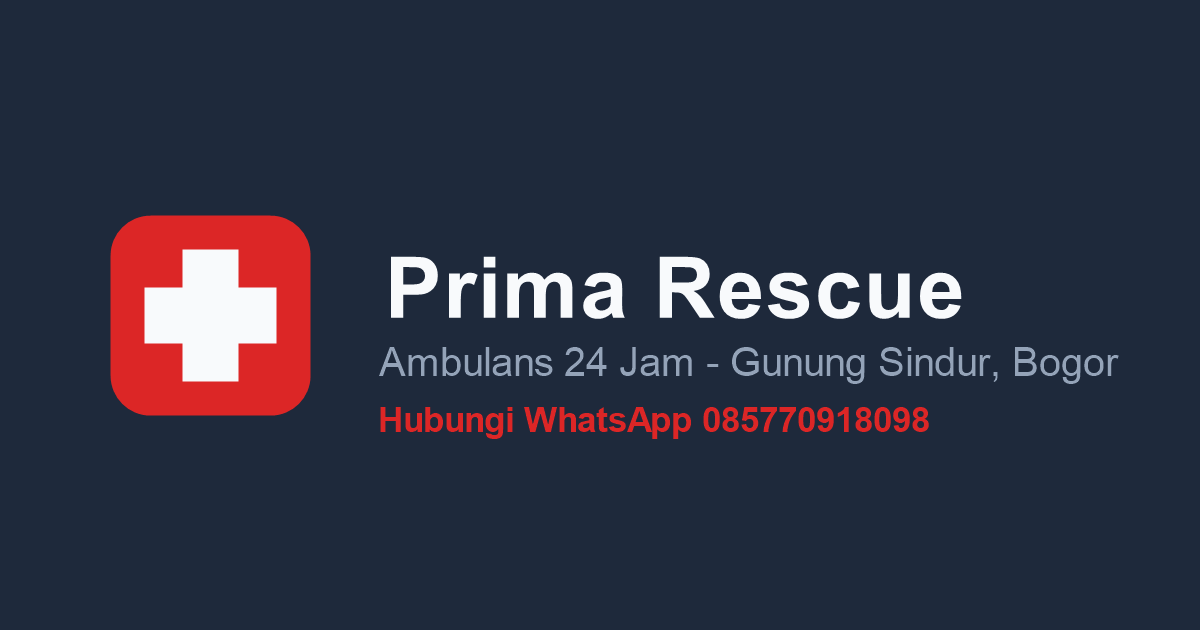
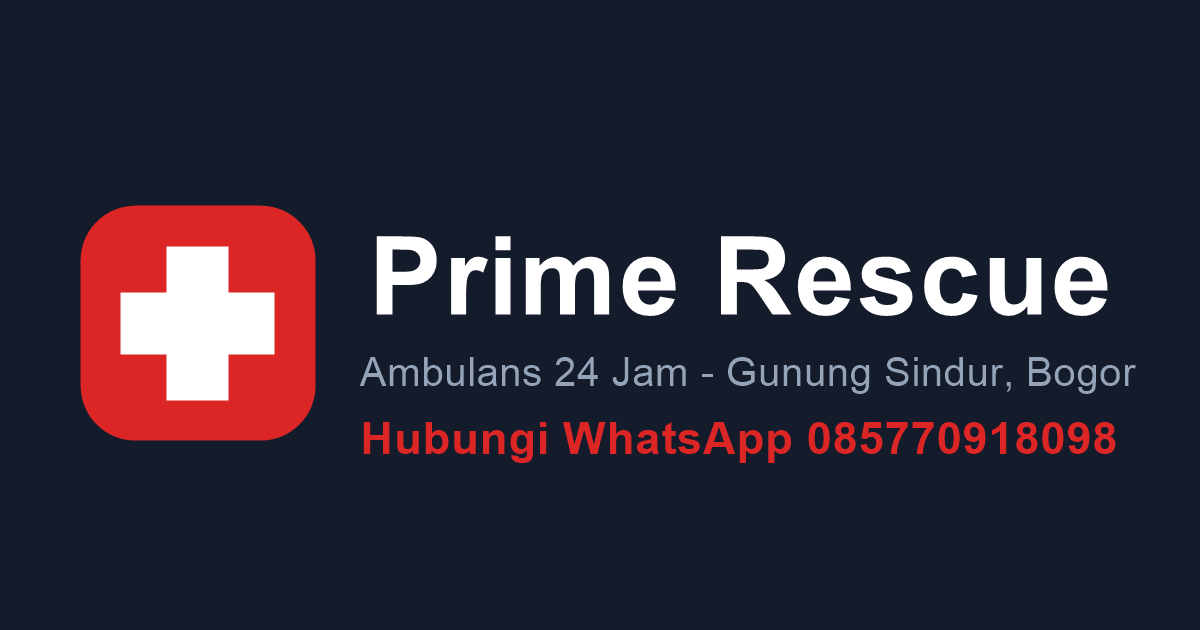
rebrand: Prima Rescue -> Prime Rescue

Changed region(s): [[0.0617, 0.3016, 0.9558, 0.754], [0.3083, 0.3619, 0.925, 0.5127]]

diff --git a/app/layout.tsx b/app/layout.tsx
@@ -16,18 +16,18 @@ const inter = Inter({
 
 export const metadata: Metadata = {
   metadataBase: new URL("https://primerescue.web.id"),
-  title: "Ambulans 24 Jam Prima Rescue Gunung Sindur",
+  title: "Ambulans 24 Jam Prime Rescue Gunung Sindur",
   description:
     "Layanan ambulans profesional 24/7 di Gunung Sindur & Bogor. Pengantaran cepat, tim terlatih, hubungi WhatsApp 085770918098 sekarang juga.",
   alternates: {
     canonical: "/",
   },
   openGraph: {
-    title: "Ambulans 24 Jam Prima Rescue Gunung Sindur",
+    title: "Ambulans 24 Jam Prime Rescue Gunung Sindur",
     description:
       "Layanan ambulans profesional 24/7 di Gunung Sindur & Bogor. Hubungi WhatsApp 085770918098.",
     url: "https://primerescue.web.id",
-    siteName: "Prima Rescue",
+    siteName: "Prime Rescue",
     locale: "id_ID",
     type: "website",
     images: [
@@ -35,13 +35,13 @@ export const metadata: Metadata = {
         url: "/og.png",
         width: 1200,
         height: 630,
-        alt: "Prima Rescue - Ambulans 24 Jam Gunung Sindur, Bogor",
+        alt: "Prime Rescue - Ambulans 24 Jam Gunung Sindur, Bogor",
       },
     ],
   },
   twitter: {
     card: "summary_large_image",
-    title: "Ambulans 24 Jam Prima Rescue Gunung Sindur",
+    title: "Ambulans 24 Jam Prime Rescue Gunung Sindur",
     description:
       "Layanan ambulans profesional 24/7 di Gunung Sindur & Bogor. Hubungi WhatsApp 085770918098.",
     images: ["/og.png"],

diff --git a/components/sections/Footer.tsx b/components/sections/Footer.tsx
@@ -19,10 +19,10 @@ export default function Footer() {
               <span className="flex h-8 w-8 items-center justify-center rounded-lg bg-emergency-red">
                 <Icon name="cross" className="h-5 w-5" />
               </span>
-              Prima Rescue
+              Prime Rescue
             </div>
             <p className="mt-4 max-w-xs text-sm leading-relaxed text-clinical-white/70">
-              Prima Rescue adalah layanan ambulans 24 jam yang melayani Gunung
+              Prime Rescue adalah layanan ambulans 24 jam yang melayani Gunung
               Sindur, Bogor, dan daerah sekitarnya dengan profesionalisme dan
               kecepatan.
             </p>
@@ -68,7 +68,7 @@ export default function Footer() {
         </div>
 
         <div className="mt-12 flex flex-col items-center justify-between gap-2 border-t border-white/10 pt-6 text-xs text-clinical-white/50 sm:flex-row">
-          <p>© {new Date().getFullYear()} Prima Rescue. All rights reserved.</p>
+          <p>© {new Date().getFullYear()} Prime Rescue. All rights reserved.</p>
           <p>Crafted by SixLabs</p>
         </div>
       </Container>

diff --git a/data/gallery.ts b/data/gallery.ts
@@ -6,22 +6,22 @@ import antarImg from "@/public/images/antar-1.webp";
 export const GALLERY_PHOTOS = [
   {
     src: armadaImg,
-    alt: "Armada ambulans Prima Rescue siap melayani 24 jam di Gunung Sindur, Bogor",
-    caption: "Armada Prima Rescue",
+    alt: "Armada ambulans Prime Rescue siap melayani 24 jam di Gunung Sindur, Bogor",
+    caption: "Armada Prime Rescue",
   },
   {
     src: interiorImg,
-    alt: "Interior ambulans Prima Rescue yang bersih, steril dan nyaman",
+    alt: "Interior ambulans Prime Rescue yang bersih, steril dan nyaman",
     caption: "Interior Steril & Nyaman",
   },
   {
     src: timImg,
-    alt: "Tim terlatih Prima Rescue saat menangani pasien dengan sigap",
+    alt: "Tim terlatih Prime Rescue saat menangani pasien dengan sigap",
     caption: "Tim Terlatih & Berpengalaman",
   },
   {
     src: antarImg,
-    alt: "Perjalanan pengantaran pasien menggunakan ambulans Prima Rescue",
+    alt: "Perjalanan pengantaran pasien menggunakan ambulans Prime Rescue",
     caption: "Pengantaran Cepat & Aman",
   },
 ] as const;

diff --git a/components/ui/FloatingCta.tsx b/components/ui/FloatingCta.tsx
@@ -11,7 +11,7 @@ export default function FloatingCta() {
   return (
     <div
       className="fixed bottom-6 right-6 z-50 flex flex-col gap-3"
-      aria-label="Kontak cepat Prima Rescue"
+      aria-label="Kontak cepat Prime Rescue"
     >
       <a
         href={`tel:${BUSINESS.phoneE164}`}
@@ -27,7 +27,7 @@ export default function FloatingCta() {
         target="_blank"
         rel="noopener noreferrer"
         onClick={() => trackWhatsAppClick("floating_cta")}
-        aria-label="Chat WhatsApp Prima Rescue"
+        aria-label="Chat WhatsApp Prime Rescue"
         className={`${BASE_BUTTON_CLASSES} bg-[#25D366] hover:bg-[#1dae55]`}
       >
         <Icon name="whatsapp" className="h-4 w-4 shrink-0 md:h-5 md:w-5" />

diff --git a/data/faqs.ts b/data/faqs.ts
@@ -1,11 +1,11 @@
 export const FAQS = [
   {
-    question: "Berapa biaya layanan ambulans Prima Rescue?",
+    question: "Berapa biaya layanan ambulans Prime Rescue?",
     answer:
       "Biaya layanan bervariasi tergantung lokasi dan jarak. Hubungi kami via WhatsApp untuk penawaran harga yang akurat sesuai kebutuhan Anda.",
   },
   {
-    question: "Apakah ambulans Prima Rescue menerima pasien dari mana saja?",
+    question: "Apakah ambulans Prime Rescue menerima pasien dari mana saja?",
     answer:
       "Kami melayani Gunung Sindur dan daerah sekitar Bogor. Untuk area di luar itu, silakan hubungi untuk konfirmasi ketersediaan layanan.",
   },

diff --git a/components/sections/ServiceArea.tsx b/components/sections/ServiceArea.tsx
@@ -27,7 +27,7 @@ export default function ServiceArea() {
           <div className="overflow-hidden rounded-lg border border-border-light">
             <iframe
               src={MAP_EMBED_URL}
-              title="Lokasi Prima Rescue di Gunung Sindur, Bogor"
+              title="Lokasi Prime Rescue di Gunung Sindur, Bogor"
               className="h-[300px] w-full border-0 md:h-[400px]"
               loading="lazy"
               referrerPolicy="no-referrer-when-downgrade"

diff --git a/components/sections/WhyChooseUs.tsx b/components/sections/WhyChooseUs.tsx
@@ -24,7 +24,7 @@ export default function WhyChooseUs() {
   return (
     <section id="keunggulan" className="bg-background-soft py-16 md:py-24">
       <Container>
-        <SectionHeading title="Mengapa Memilih Prima Rescue?" />
+        <SectionHeading title="Mengapa Memilih Prime Rescue?" />
         <div className="grid gap-10 sm:grid-cols-3 sm:gap-6">
           {VALUES.map((value) => (
             <div key={value.title} className="max-w-[300px]">

diff --git a/components/sections/Hero.tsx b/components/sections/Hero.tsx
@@ -35,7 +35,7 @@ export default function Hero() {
           <div className="lg:order-1">
             <Image
               src={armadaImg}
-              alt="Ambulans Prima Rescue siap melayani 24 jam di Gunung Sindur, Bogor"
+              alt="Ambulans Prime Rescue siap melayani 24 jam di Gunung Sindur, Bogor"
               priority
               sizes="(min-width: 1024px) 50vw, 100vw"
               className="rounded-lg object-cover shadow-lg"

diff --git a/components/sections/ContactCta.tsx b/components/sections/ContactCta.tsx
@@ -12,7 +12,7 @@ export default function ContactCta() {
             Butuh Ambulans Sekarang?
           </h2>
           <p className="mt-4 text-lg leading-relaxed text-clinical-white/90">
-            Hubungi Prima Rescue 24/7 melalui WhatsApp.
+            Hubungi Prime Rescue 24/7 melalui WhatsApp.
           </p>
           <WhatsAppButton variant="onRed" trackLabel="contact_cta" className="mt-8 h-12 px-8 text-base">
             Hubungi WhatsApp

diff --git a/components/sections/Header.tsx b/components/sections/Header.tsx
@@ -51,7 +51,7 @@ export default function Header() {
           <span className="flex h-8 w-8 items-center justify-center rounded-lg bg-emergency-red">
             <Icon name="cross" className="h-5 w-5 text-white" />
           </span>
-          Prima Rescue
+          Prime Rescue
         </a>
 
         <nav className="hidden items-center gap-8 md:flex" aria-label="Navigasi utama">

diff --git a/components/ui/AmbulanceIllustration.tsx b/components/ui/AmbulanceIllustration.tsx
@@ -4,7 +4,7 @@ export default function AmbulanceIllustration() {
       <svg
         viewBox="0 0 640 420"
         role="img"
-        aria-label="Ilustrasi ambulans Prima Rescue melaju di jalan Gunung Sindur"
+        aria-label="Ilustrasi ambulans Prime Rescue melaju di jalan Gunung Sindur"
         className="h-auto w-full"
       >
         <defs>

diff --git a/components/sections/Gallery.tsx b/components/sections/Gallery.tsx
@@ -54,7 +54,7 @@ export default function Gallery() {
       <Container>
         <SectionHeading
           title="Galeri Tim & Armada Kami"
-          subtitle="Lihat langsung ambulans dan tim Prima Rescue yang siap membantu Anda."
+          subtitle="Lihat langsung ambulans dan tim Prime Rescue yang siap membantu Anda."
         />
 
         <div
